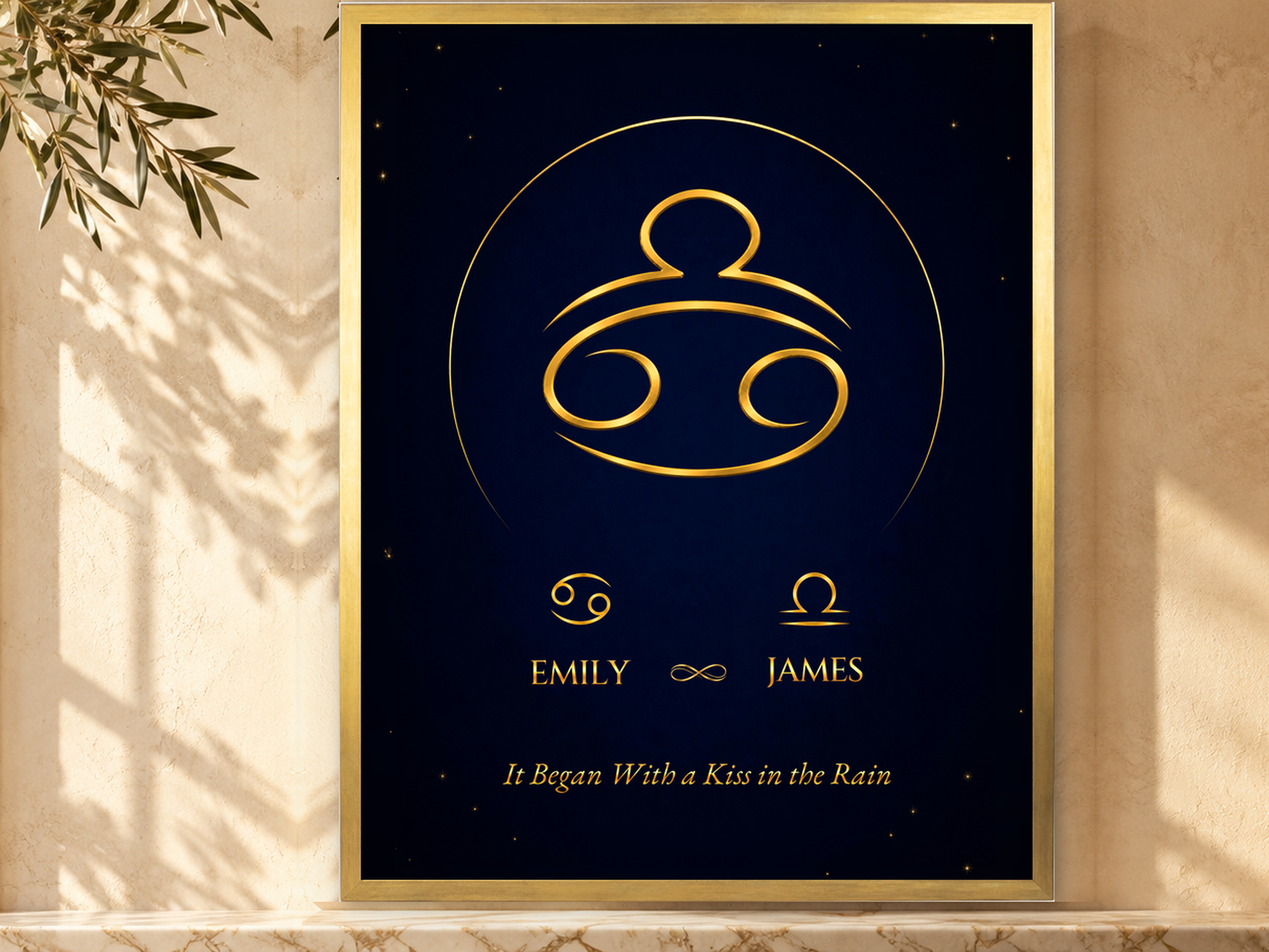
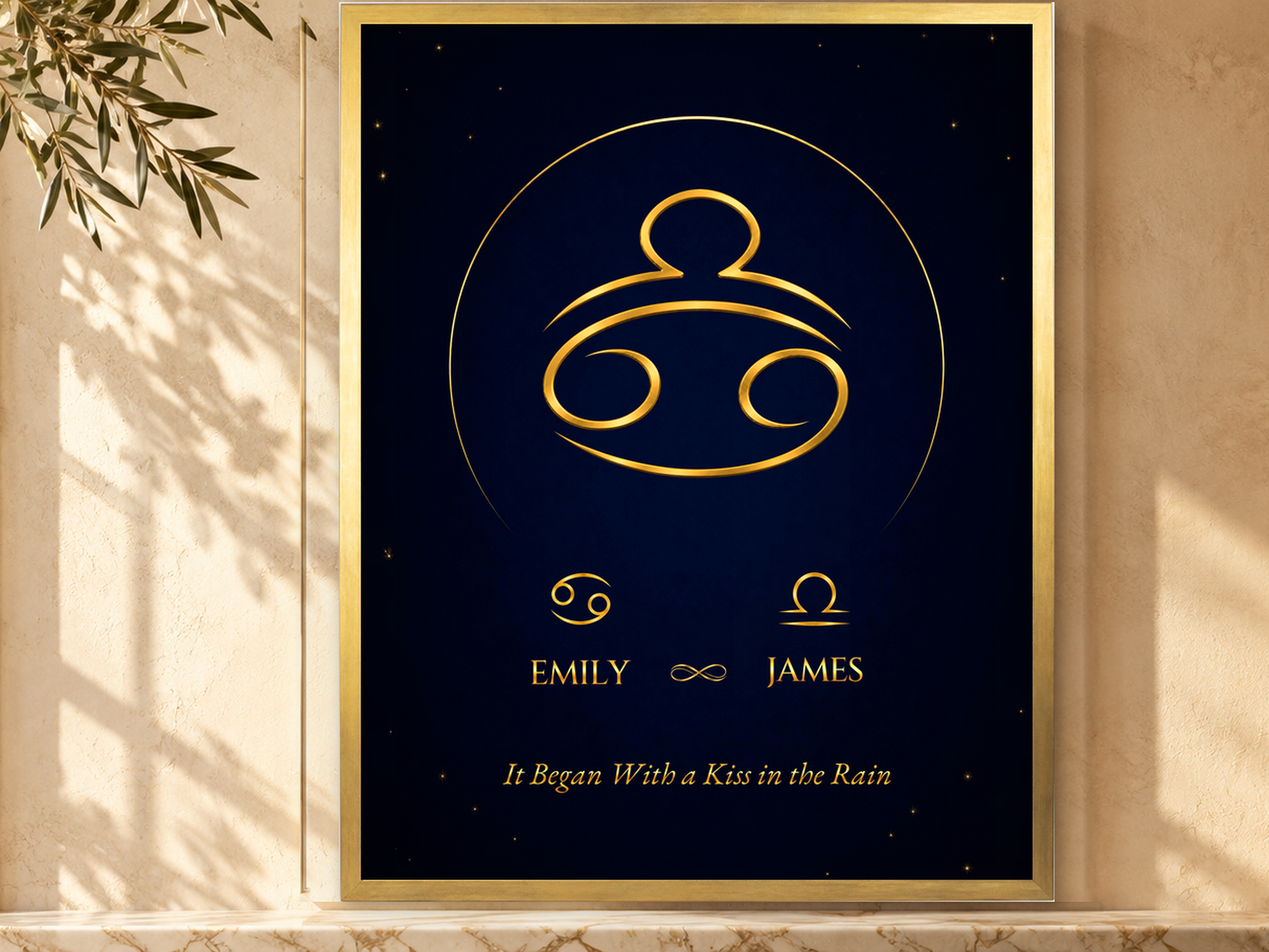
kapak v5: yama dikisi duzeltildi (ayna yerine kaydirmali + 14 px gecis)
Sag kenardaki iz ayna yamasinin isik gradyanini ters cevirmesindendi.
Paketteki 01_kapak guncellendi.

Claude-Session: https://claude.ai/code/session_01FAzAuMeV41NHogxqPMeqMd

Changed region(s): [[0.217, 0.0311, 0.279, 0.9333]]

diff --git a/scripts/pod/kapak_v5_kur.py b/scripts/pod/kapak_v5_kur.py
@@ -34,12 +34,22 @@ poster = B.crop((kx, ky, B.width - kx, B.height - ky)).resize((PW, PH), Image.LA
 fr = cerceve_blank(AGCH, poster, F)
 FX, FY = CX - fr.width // 2, TABAN - fr.height
 
-# yan seritleri komsu duvarin aynasiyla kapat (sol: 420-470 -> 470-520 ...)
+# yan seritleri komsu duvardan KAYDIRMALI yama ile kapat (ayna yok: isik gradyani bozulmasin),
+# dis kenarda 14 px yumusak gecis; ic kenar cerceve ve temas golgesi altinda kalir.
+def yama(hedef_x0, hedef_x1, kaynak_x0):
+    gen = hedef_x1 - hedef_x0
+    par = G.crop((kaynak_x0, 0, kaynak_x0 + gen, TABAN))
+    m = Image.new('L', par.size, 255)
+    mp = np.tile(np.linspace(0, 255, 14), (TABAN, 1)).astype(np.uint8)
+    if kaynak_x0 < hedef_x0:   # sol yama: dis kenar solda
+        m.paste(Image.fromarray(mp), (0, 0))
+    else:                       # sag yama: dis kenar sagda
+        m.paste(Image.fromarray(mp[:, ::-1]), (gen - 14, 0))
+    G.paste(par, (hedef_x0, 0), m)
 gen_sol = FX - BX0 + 4
 gen_sag = BX1 - (FX + fr.width) + 4
-sol = G.crop((BX0 - gen_sol, 0, BX0, TABAN)).transpose(Image.FLIP_LEFT_RIGHT)
-sag = G.crop((BX1, 0, BX1 + gen_sag, TABAN)).transpose(Image.FLIP_LEFT_RIGHT)
-G.paste(sol, (BX0 - 2, 0)); G.paste(sag, (BX1 - gen_sag + 2, 0))
+yama(BX0 - 2, BX0 - 2 + gen_sol, BX0 - 2 - gen_sol)
+yama(BX1 + 2 - gen_sag, BX1 + 2, BX1 + 2)
 
 # golge (cerceveden once): temas + yumusak, alt-sag
 a = np.asarray(G).astype(np.float32)
